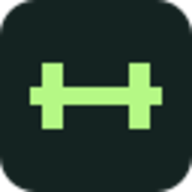
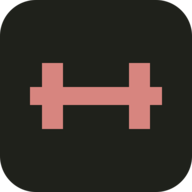
feat: change colorscheme

diff --git a/src/index.css b/src/index.css
@@ -1,10 +1,28 @@
 @import 'tailwindcss';
-:root { color-scheme: dark; font-family: system-ui,sans-serif; background:#142321; color:#eff6ef }
+:root {
+  color-scheme: dark;
+  font-family: system-ui,sans-serif;
+  --canvas: #1f211b;
+  --surface: #2b2d26;
+  --edge: #52554d;
+  --control-edge: #85867a;
+  --ink: #fef4eb;
+  --muted: #c6a49f;
+  --rose: #d7857f;
+  --peach: #f7d1ab;
+  background: var(--canvas);
+  color: var(--ink);
+}
 h1,h2 { font-size:2.75rem; font-weight:750; line-height:1.18 }
-h2,header small { color:#b5f885 }
+h2 { color:var(--peach) } header small { color:var(--rose) }
 h2 span { font-size:1rem }
 h3 { font-weight:700; font-size:1.2rem; margin-bottom:.8rem }
-section { background:#20312e; border:1px solid #394943; border-radius:1rem; padding:1.2rem }
-p,footer,small { color:#c7d5cf } p:not(:empty) { margin-top:.5rem }
-input,button { border-radius:.5rem; padding:.7rem; width:100% } input { display:block; margin-top:.3rem; background:#142321; border:1px solid #63746d }
-button { background:#b5f885; color:#142321; font-weight:700; cursor:pointer } button:disabled { opacity:.55 } li+li { margin-top:.65rem } footer { font-size:.85rem }
+section { background:var(--surface); border:1px solid var(--edge); border-radius:1rem; padding:1.2rem }
+p,footer,small { color:var(--muted) } p:not(:empty) { margin-top:.5rem }
+input,button { border-radius:.5rem; padding:.7rem; width:100% }
+input { display:block; margin-top:.3rem; background:var(--canvas); border:1px solid var(--control-edge) }
+input::placeholder { color:var(--muted) }
+button { background:var(--rose); color:var(--canvas); font-weight:700; cursor:pointer }
+button:hover:not(:disabled) { background:#ec9997 }
+:focus-visible { outline:2px solid var(--peach); outline-offset:3px }
+button:disabled { opacity:.55 } li+li { margin-top:.65rem } footer { font-size:.85rem }

diff --git a/src/App.tsx b/src/App.tsx
@@ -32,7 +32,7 @@ export default function App() {
       <label>Weight (kg)<input required type="number" step="0.1" min="0.1" max="600" name="kg" placeholder="60" /></label>
       <label>Reps<input required type="number" min="1" max="12" name="reps" placeholder="5" /></label>
       <button disabled={busy || !rows} className="col-span-2">{busy ? 'Saving…' : 'Save bench set'}</button></form><p role="status">{notice}</p></section>
-    <section><h3>Estimated max · kg</h3>{last ? <ResponsiveContainer width="100%" height={160}><LineChart data={progress}><XAxis dataKey="set" tickLine={false}/><YAxis width={40}/><Tooltip/><Line type="linear" dataKey="estimate" name="Estimated max (kg)" stroke="#b5f885" isAnimationActive={false}/></LineChart></ResponsiveContainer> : <p>Your trend starts with your first set.</p>}
+    <section><h3>Estimated max · kg</h3>{last ? <ResponsiveContainer width="100%" height={160}><LineChart data={progress}><XAxis dataKey="set" tickLine={false} stroke="var(--muted)"/><YAxis width={40} stroke="var(--muted)"/><Tooltip contentStyle={{ background: 'var(--canvas)', borderColor: 'var(--edge)' }}/> <Line type="linear" dataKey="estimate" name="Estimated max (kg)" stroke="var(--peach)" isAnimationActive={false}/></LineChart></ResponsiveContainer> : <p>Your trend starts with your first set.</p>}
       <small>Single reps use actual weight. For 2–12 reps: weight × (1 + reps / 30).</small></section>
     <section><h3>Recent sets</h3>{!rows ? 'Loading…' : !rows.length ? 'No sets yet.' : <ol>{rows.slice(-10).reverse().map((row,i) => <li key={row.id}><b>{row.kg} kg × {row.reps}</b> · +{progress[rows.length-1-i].delta} pts<br/><small>{new Date(row.time).toLocaleString()}</small></li>)}</ol>}</section>
     <footer>Local to this browser · No account or cloud backup</footer></main>

diff --git a/vite.config.ts b/vite.config.ts
@@ -3,6 +3,6 @@ import react from '@vitejs/plugin-react'
 import tailwind from '@tailwindcss/vite'
 import { VitePWA } from 'vite-plugin-pwa'
 export default defineConfig({ plugins: [react(), tailwind(), VitePWA({ registerType: 'autoUpdate', manifest: {
-  name: 'Liftr — Bench Log', short_name: 'Liftr', start_url: '/', display: 'standalone', theme_color: '#142321', background_color: '#142321',
+  name: 'Liftr — Bench Log', short_name: 'Liftr', start_url: '/', display: 'standalone', theme_color: '#1f211b', background_color: '#1f211b',
   icons: [192, 512].map(size => ({ src: `/liftr-${size}.png`, sizes: `${size}x${size}`, type: 'image/png' }))
 } })] })

diff --git a/index.html b/index.html
@@ -4,7 +4,7 @@
     <meta charset="UTF-8" />
     <link rel="icon" type="image/svg+xml" href="/favicon.svg" />
     <meta name="viewport" content="width=device-width, initial-scale=1.0" />
-    <meta name="theme-color" content="#142321" />
+    <meta name="theme-color" content="#1f211b" />
     <title>Liftr · Bench log</title>
   </head>
   <body>
